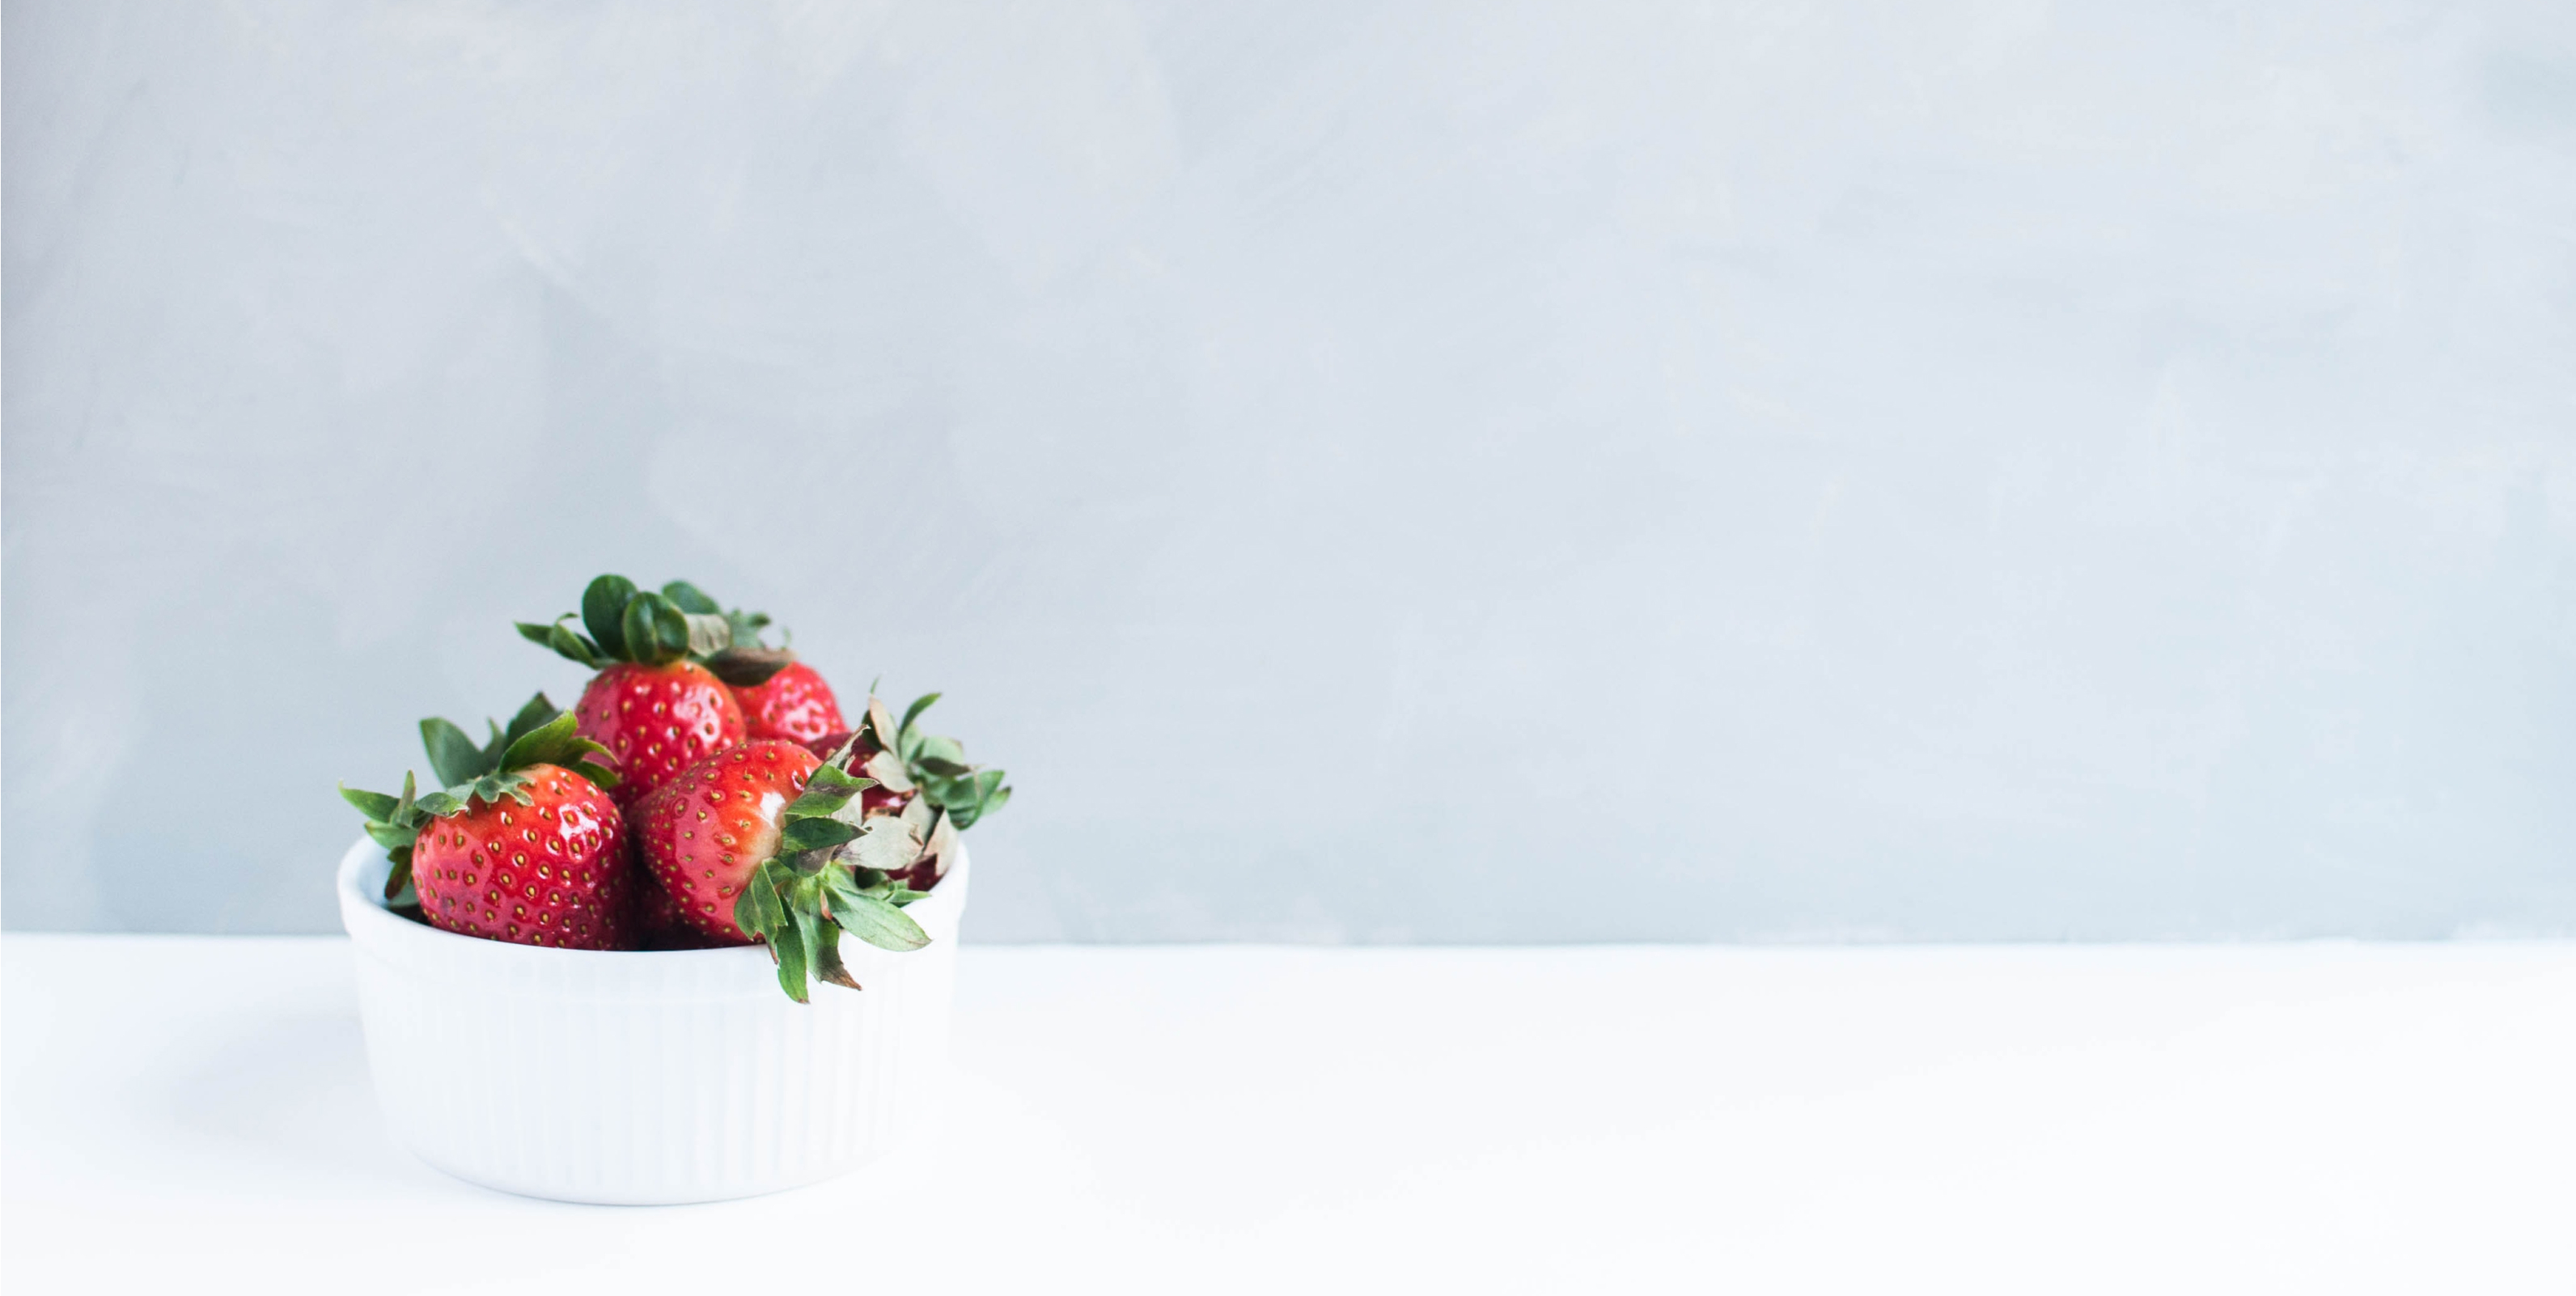
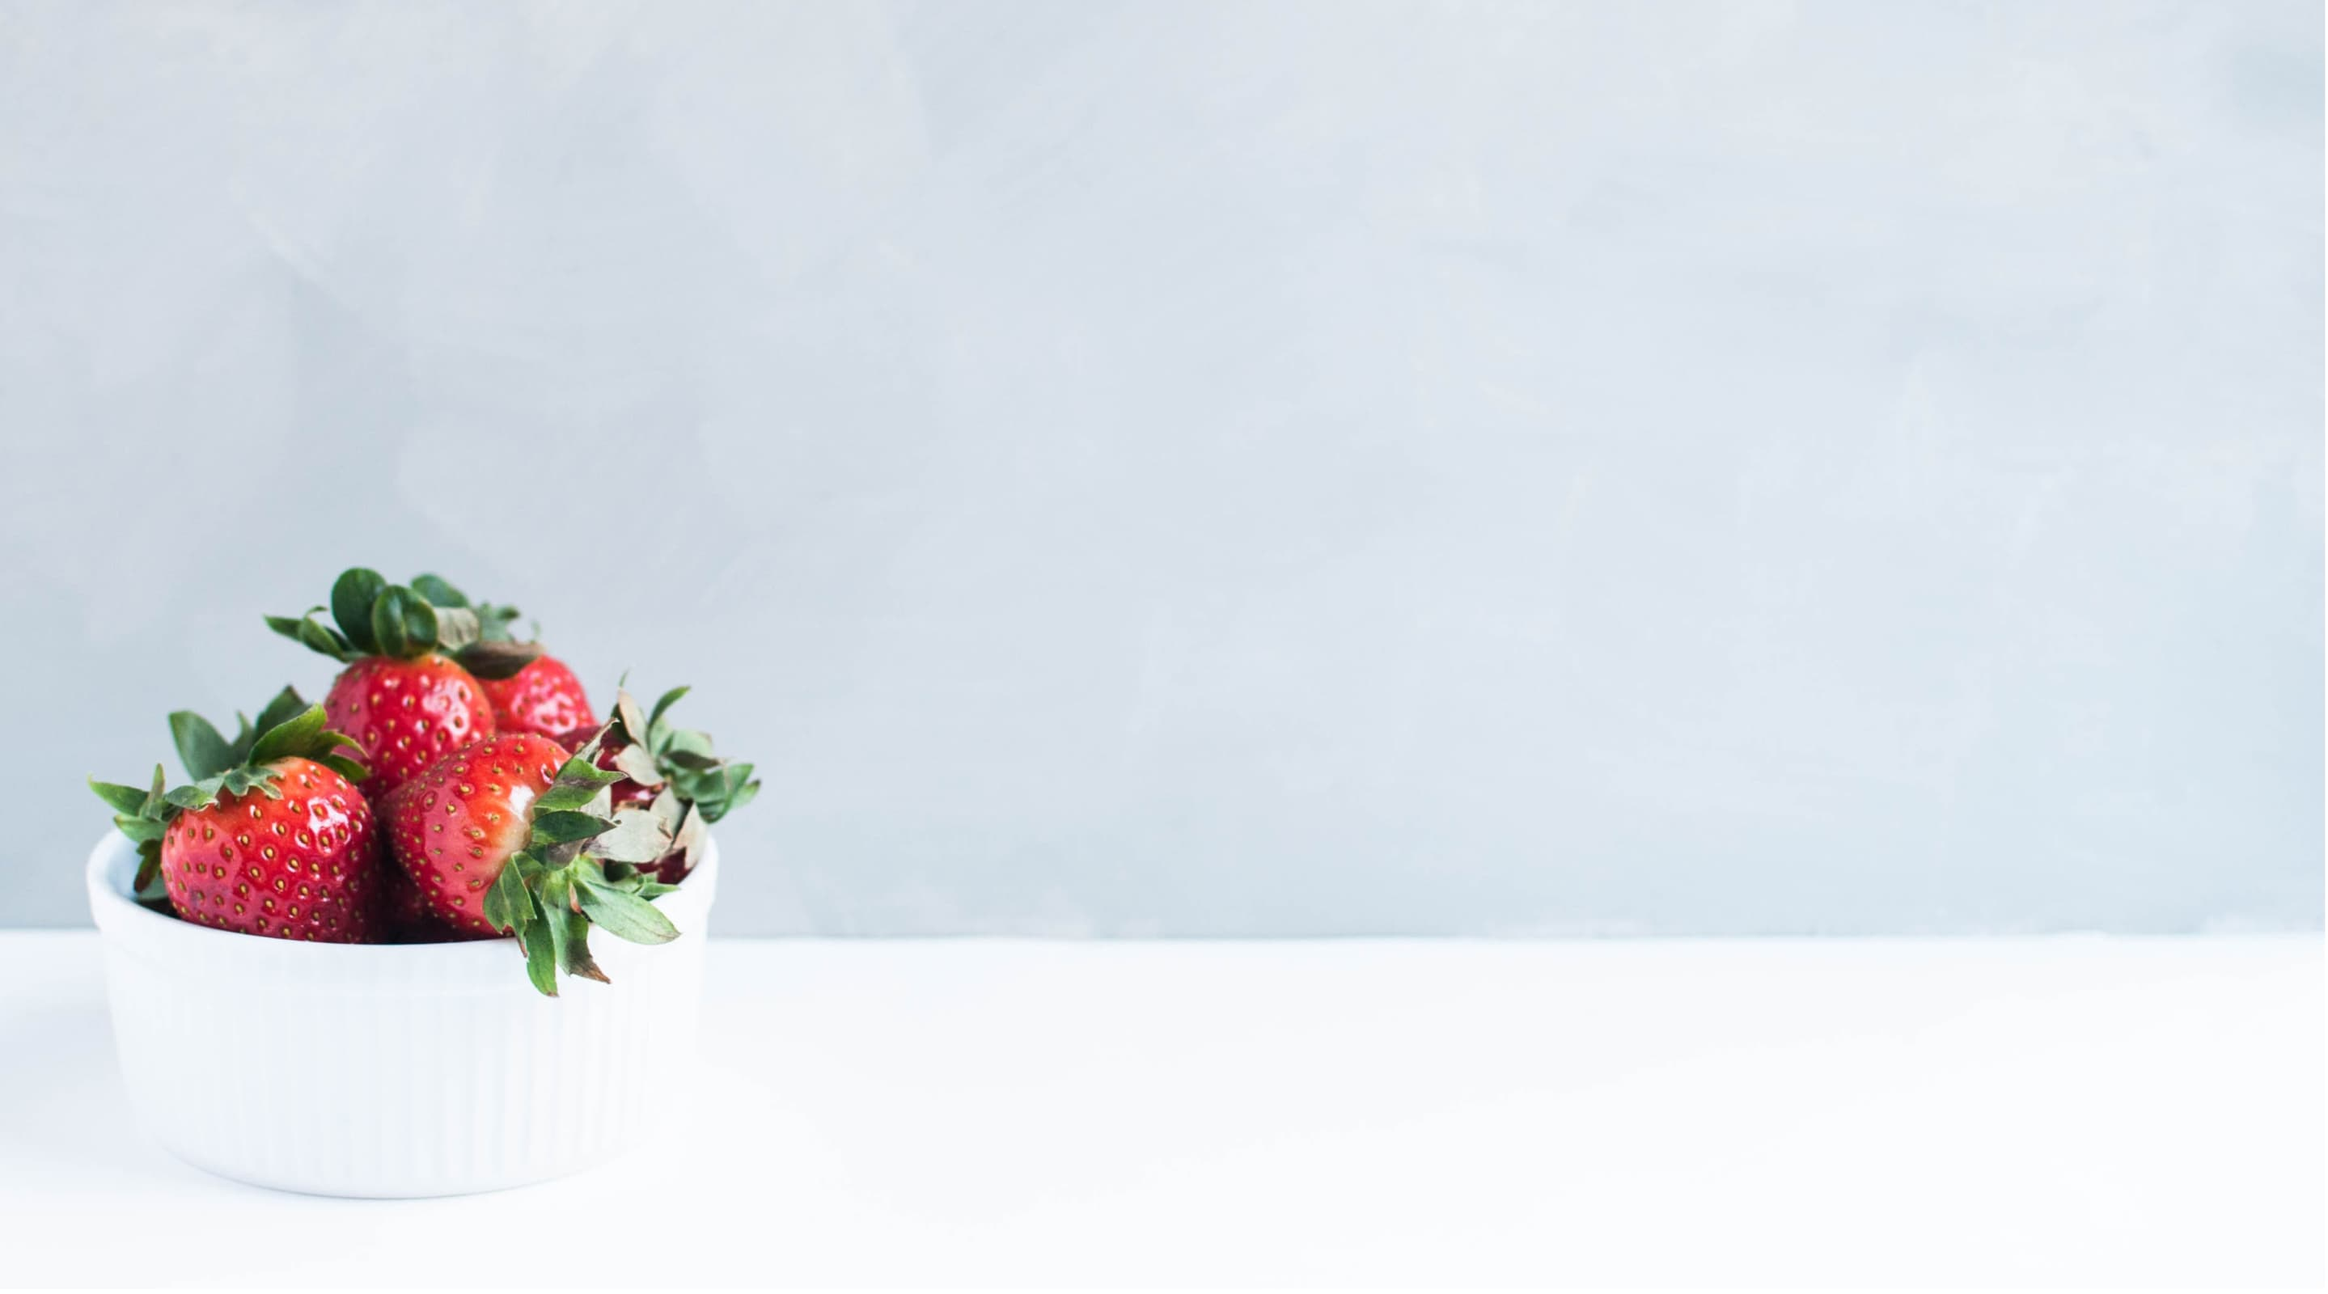
fin

diff --git a/source/sass/blocks/main/form.scss b/source/sass/blocks/main/form.scss
@@ -15,9 +15,9 @@
   }
 
   @include mixins.desktop {
-    gap: 47px;
-    padding: 0 168px;
-    padding-right: 120px;
+    gap: 48px;
+    padding: 0 192px;
+    padding-right: 142px;
   }
 }
 
@@ -38,6 +38,14 @@
   @include mixins.desktop {
     padding: 0;
     margin-top: 0;
+
+    &--berries {
+      margin-bottom: 10px;
+    }
+
+    &--contacts {
+      margin-top: -1px;
+    }
   }
 }
 
@@ -174,7 +182,7 @@
   }
 
   @include mixins.desktop {
-    padding-right: 240px;
+    padding-right: 168px;
   }
 }
 
@@ -196,17 +204,23 @@
 
   @include mixins.desktop {
     margin-top: 0;
-    margin-right: 48px;
+    margin-right: 57px;
+  }
+}
+
+.form__control--delivery {
+  @include mixins.mobile {
+    padding-right: 45px;
+  }
+
+  @include mixins.desktop {
+    & br:last-of-type {
+      display: none;
+    }
   }
 }
 
 .form__control {
-  &--delivery {
-    @include mixins.mobile {
-      padding-right: 45px;
-    }
-  }
-
   &--keep {
     @include mixins.tablet {
       gap: 24px;

diff --git a/source/form.html b/source/form.html
@@ -186,7 +186,7 @@
                   <label class="form__control form__control--delivery control">
                     <input class="visually-hidden control__input" type="radio" name="get_type" value="delivery" checked>
                     <span class="control__mark control__mark--radio"></span>
-                    <span class="control__label">Доставка<br> (по СПБ в пределах &nbsp;КАД)</span>
+                    <span class="control__label">Доставка<br> (по СПБ в пределах<br>&nbsp;КАД)</span>
                   </label>
                 </li>
 

diff --git a/source/sass/blocks/main/introduction.scss b/source/sass/blocks/main/introduction.scss
@@ -27,7 +27,6 @@
   @include mixins.desktop {
     min-height: 800px;
     background-image: url("../img/introduction-back-desktop@1x.jpg");
-    background-position: 103%  calc(50% - 3px);
     background-color: #fafdfe;
 
 

diff --git a/source/sass/blocks/header/header.scss b/source/sass/blocks/header/header.scss
@@ -72,6 +72,10 @@
     margin-top: 1px;
   }
 
+  @include mixins.tablet {
+    margin-left: 9px;
+  }
+
   &--index {
     pointer-events: none;
     cursor: default;
